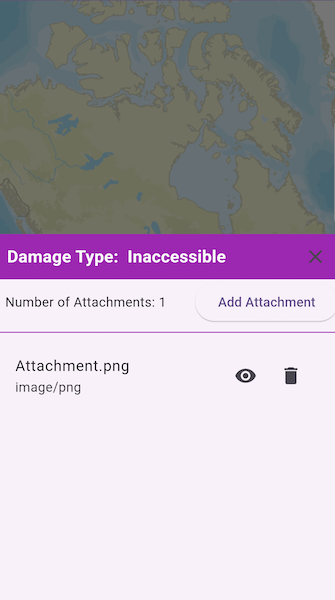
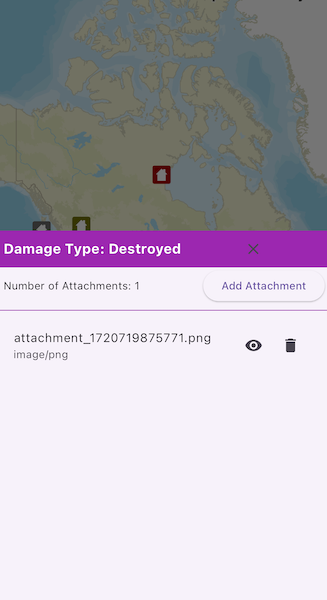
clean up the code, remove debug info.

diff --git a/lib/samples/edit_feature_attachments/edit_feature_attachments_sample.dart b/lib/samples/edit_feature_attachments/edit_feature_attachments_sample.dart
@@ -34,9 +34,12 @@ class _EditFeatureAttachmentsSampleState
     extends State<EditFeatureAttachmentsSample> with SampleStateSupport {
   final _mapViewController = ArcGISMapView.createController();
   final _featureLayer = FeatureLayer.withFeatureTable(
-      ServiceFeatureTable.withUri(Uri.parse(
-          'https://sampleserver6.arcgisonline.com/arcgis/rest/services/DamageAssessment/FeatureServer/0')));
-  var _selectedFeature;
+    ServiceFeatureTable.withUri(
+      Uri.parse(
+        'https://sampleserver6.arcgisonline.com/arcgis/rest/services/DamageAssessment/FeatureServer/0',
+      ),
+    ),
+  );
 
   @override
   void initState() {
@@ -82,28 +85,28 @@ class _EditFeatureAttachmentsSampleState
         identifyLayerResult.geoElements.whereType<Feature>().toList();
     if (features.isNotEmpty) {
       _featureLayer.selectFeatures(features: features);
-      _selectedFeature = features.first as ArcGISFeature;
-      _showBottomSheet();
+      final selectedFeature = features.first as ArcGISFeature;
+      _showBottomSheet(selectedFeature);
     }
   }
 
   // show the bottom sheet to display the attachment information.
-  void _showBottomSheet() async {
+  void _showBottomSheet(ArcGISFeature selectedFeature) async {
     showModalBottomSheet(
       context: context,
       builder: (context) => AttachmentsOptions(
-        arcGISFeature: _selectedFeature,
+        arcGISFeature: selectedFeature,
         applyEdits: _applyEdits,
       ),
     ); // end of showModalBottomSheet
   }
 
   // apply the changes to the feature table.
-  Future<void> _applyEdits() async {
+  Future<void> _applyEdits(ArcGISFeature selectedFeature) async {
     final serviceFeatureTable =
         _featureLayer.featureTable! as ServiceFeatureTable;
     try {
-      await serviceFeatureTable.updateFeature(_selectedFeature);
+      await serviceFeatureTable.updateFeature(selectedFeature);
       await serviceFeatureTable.applyEdits();
     } catch (e) {
       setState(() {
@@ -131,7 +134,7 @@ class _EditFeatureAttachmentsSampleState
 //
 class AttachmentsOptions extends StatefulWidget {
   final ArcGISFeature arcGISFeature;
-  final Function() applyEdits;
+  final Function(ArcGISFeature) applyEdits;
 
   const AttachmentsOptions({
     super.key,
@@ -143,7 +146,7 @@ class AttachmentsOptions extends StatefulWidget {
   State<AttachmentsOptions> createState() => _AttachmentsOptionsState();
 }
 
-// State class for the AttachmentsOptions .
+// State class for the AttachmentsOptions.
 class _AttachmentsOptionsState extends State<AttachmentsOptions>
     with SampleStateSupport {
   late final String damageType;
@@ -166,10 +169,11 @@ class _AttachmentsOptionsState extends State<AttachmentsOptions>
             // display the damage type and a close button
             Container(
               color: Colors.purple,
+              padding: const EdgeInsets.fromLTRB(5, 0, 5, 0),
               child: Row(
                 mainAxisAlignment: MainAxisAlignment.spaceBetween,
                 children: [
-                  Text('  Damage Type:  $damageType',
+                  Text('Damage Type: $damageType',
                       style: const TextStyle(
                           fontSize: 18,
                           fontWeight: FontWeight.bold,
@@ -182,8 +186,8 @@ class _AttachmentsOptionsState extends State<AttachmentsOptions>
                   Visibility(
                     visible: isLoading,
                     child: const SizedBox(
-                        height: 20,
-                        width: 20,
+                        height: 18,
+                        width: 18,
                         child: CircularProgressIndicator(
                           color: Colors.white,
                         )),
@@ -193,17 +197,19 @@ class _AttachmentsOptionsState extends State<AttachmentsOptions>
             ),
 
             // display the number of attachments
-            Row(
-              mainAxisAlignment: MainAxisAlignment.spaceBetween,
-              children: [
-                Text('  Number of Attachments: ${attachments.length}'),
-                ElevatedButton(
-                  onPressed: addAttachment,
-                  child: const Text('Add Attachment'),
-                )
-              ],
+            Padding(
+              padding: const EdgeInsets.fromLTRB(5, 0, 5, 0),
+              child: Row(
+                mainAxisAlignment: MainAxisAlignment.spaceBetween,
+                children: [
+                  Text('Number of Attachments: ${attachments.length}'),
+                  ElevatedButton(
+                    onPressed: addAttachment,
+                    child: const Text('Add Attachment'),
+                  )
+                ],
+              ),
             ),
-
             const Divider(
               color: Colors.purple,
             ),
@@ -250,9 +256,8 @@ class _AttachmentsOptionsState extends State<AttachmentsOptions>
     setState(() => isLoading = true);
 
     await widget.arcGISFeature.deleteAttachment(attachment).then((_) {
-      widget.applyEdits();
+      widget.applyEdits(widget.arcGISFeature);
     });
-
     _loadAttachments();
 
     setState(() => isLoading = false);
@@ -304,7 +309,7 @@ class _AttachmentsOptionsState extends State<AttachmentsOptions>
     });
   }
 
-  // add an attachment to the selected feature
+  // add an attachment to the selected feature by FilePicker.
   void addAttachment() async {
     var status = false;
     final result = await FilePicker.platform.pickFiles(
@@ -314,13 +319,13 @@ class _AttachmentsOptionsState extends State<AttachmentsOptions>
         if (filePickerStatus == FilePickerStatus.done) {
           status = true;
         }
-        print(filePickerStatus);
       },
       allowedExtensions: ['png', 'jpg', 'jpeg', 'pdf', 'txt'],
     );
 
     if (result != null && status) {
       setState(() => isLoading = true);
+
       final platformFile = result.files.single;
       final file = File(platformFile.path!);
 
@@ -329,18 +334,14 @@ class _AttachmentsOptionsState extends State<AttachmentsOptions>
       final contentType = getContextType(fileExtension ?? 'default');
       final fileBytes = await file.readAsBytes();
 
-      final attachment = await widget.arcGISFeature.addAttachment(
+      await widget.arcGISFeature.addAttachment(
         name: platformFile.name,
         contentType: contentType,
         data: fileBytes,
       );
-      if (attachment != null) {
-        print(attachment.name);
-        //A resource failed to call close. error is thrown when applyEdits is called
-        await widget.applyEdits();
-      }
-
+      await widget.applyEdits(widget.arcGISFeature);
       _loadAttachments();
+
       setState(() => isLoading = false);
     }
   }
@@ -355,6 +356,7 @@ class _AttachmentsOptionsState extends State<AttachmentsOptions>
       });
     } catch (e) {
       setState(() {
+        _showErrorDialog(context, e);
         isLoading = false;
       });
     }
@@ -375,4 +377,20 @@ class _AttachmentsOptionsState extends State<AttachmentsOptions>
         return 'application/octet-stream';
     }
   }
+}
+
+void _showErrorDialog(BuildContext context, dynamic error) {
+  showDialog(
+    context: context,
+    builder: (context) => AlertDialog(
+      title: const Text('Error'),
+      content: Text(error.toString()),
+      actions: [
+        TextButton(
+          onPressed: () => Navigator.pop(context),
+          child: const Text('OK'),
+        ),
+      ],
+    ),
+  );
 }
